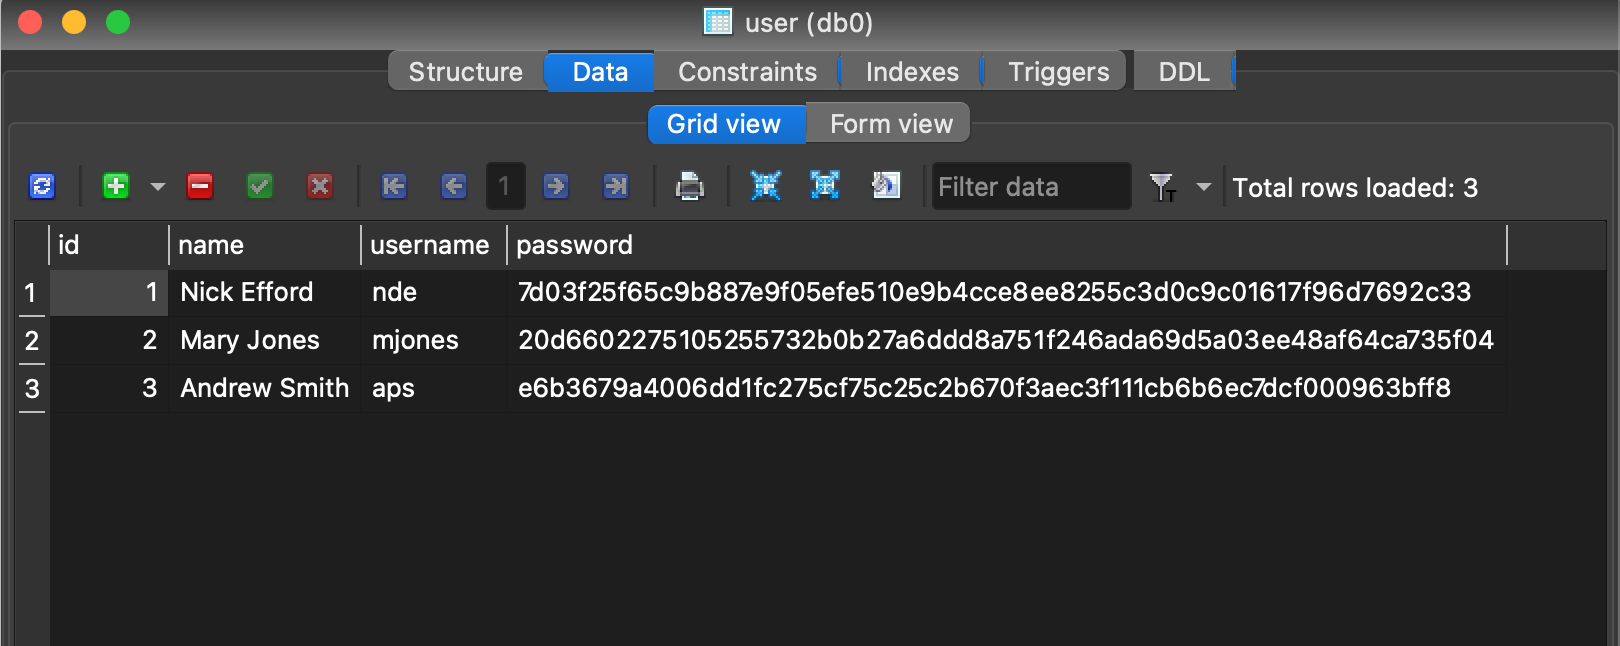
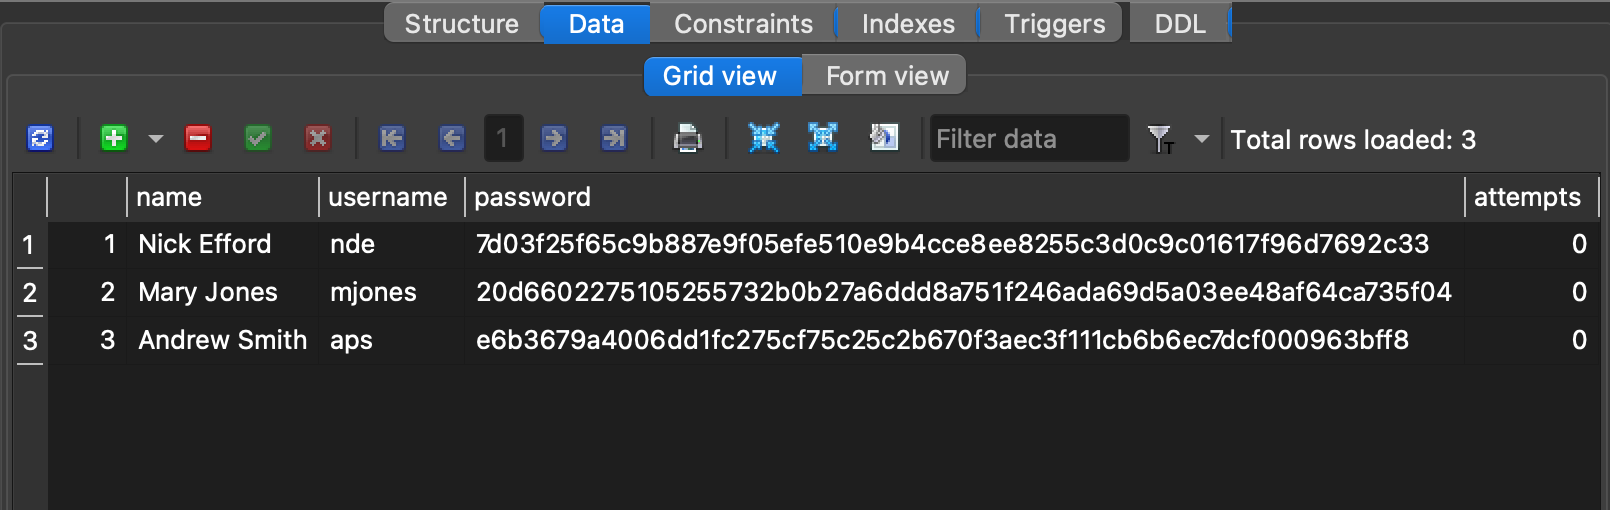
Final update on security README and screenshots

Changed region(s): [[0.0, 0.0, 1.0, 1.0], [0.2795, 0.6471, 0.9006, 0.7059], [0.0621, 0.6471, 0.2484, 0.7059]]

diff --git a/reporting/flaws/password_security/README.md b/reporting/flaws/password_security/README.md
@@ -23,12 +23,13 @@ These issues consist of a few different threat types:
 3. Information Disclosure (attacker gaining access to data they are not supposed to)
 4. Elevation of Privilege (anonymous user elevating to registered user)
 
-In order to secure the application we went ahead and applied 2 different measures. First, we implemented a requirement of a unique
+In order to secure the application we went ahead and applied 3 different measures. First, we implemented a requirement of a unique
 usernames in the database, however a fully robust implementation using more secure passwords would require a registration page, 
 which is outside the scope of this assignment. Secondly, to improve password security we added the use of
 SHA-256 hashed passwords with salt. Our salt is a statically declared Salt attributein ord er to first convert passwords 
 that already existed in the database. A fully secure implementation would require a randomly generated password salt and
-an empty database, which would salt passwords at the registration process. 
+an empty database, which would salt passwords at the registration process. Lastly, we implemented account lockout so if a 
+user fails to login 3 times, they will not be able to login and a message is shown to inform them.
 
 # Code Analysis
 Implemented a function `getHashed` that takes a plain string password, hashes it using our salt and returns it as a string. 
